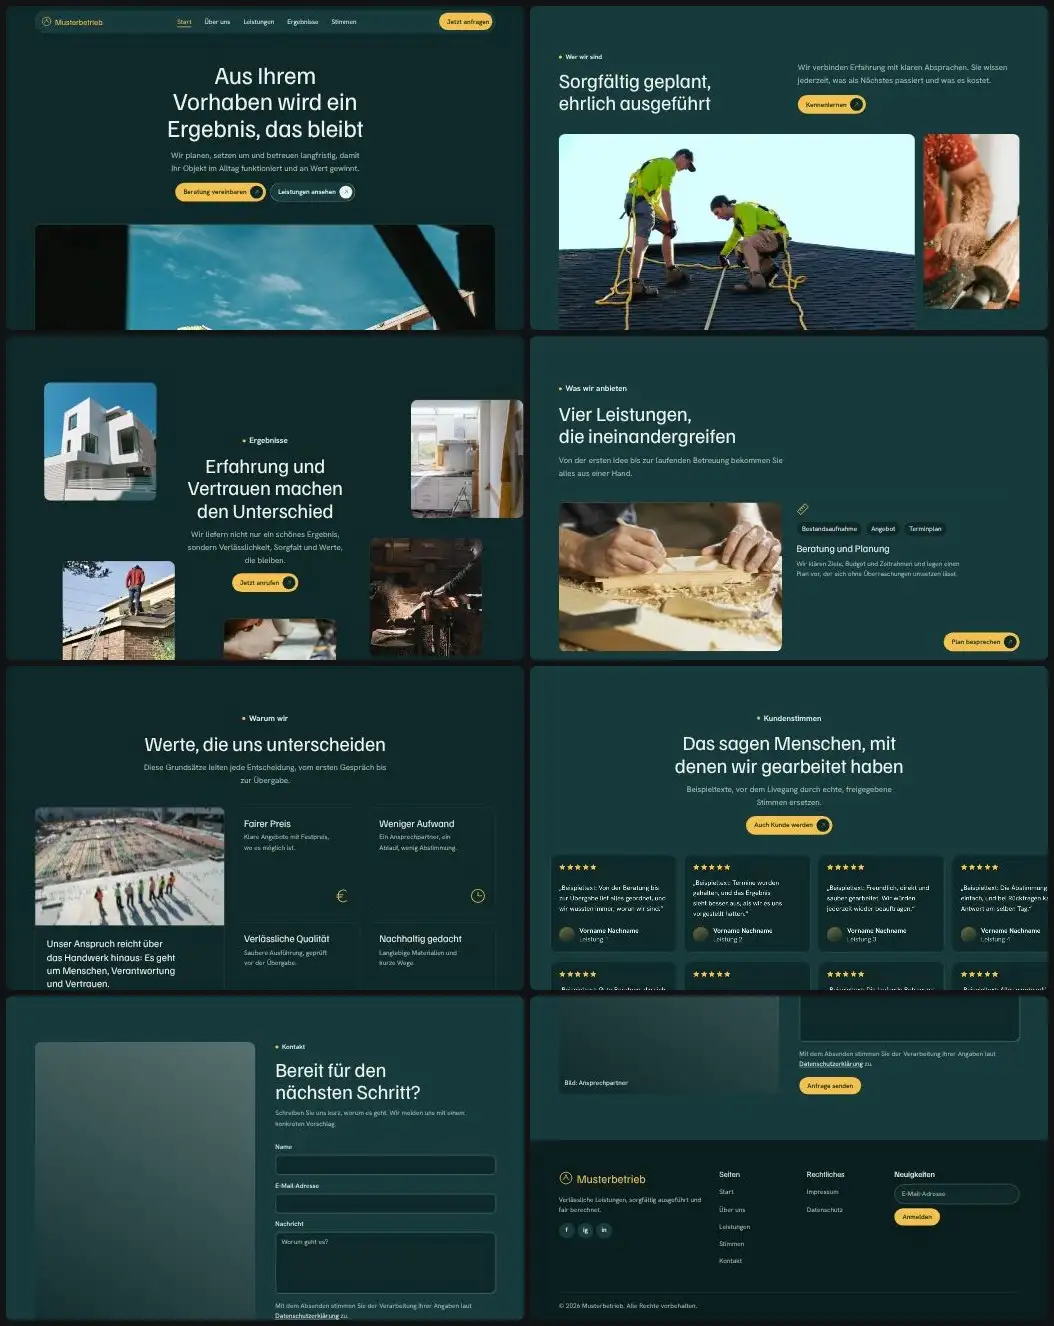
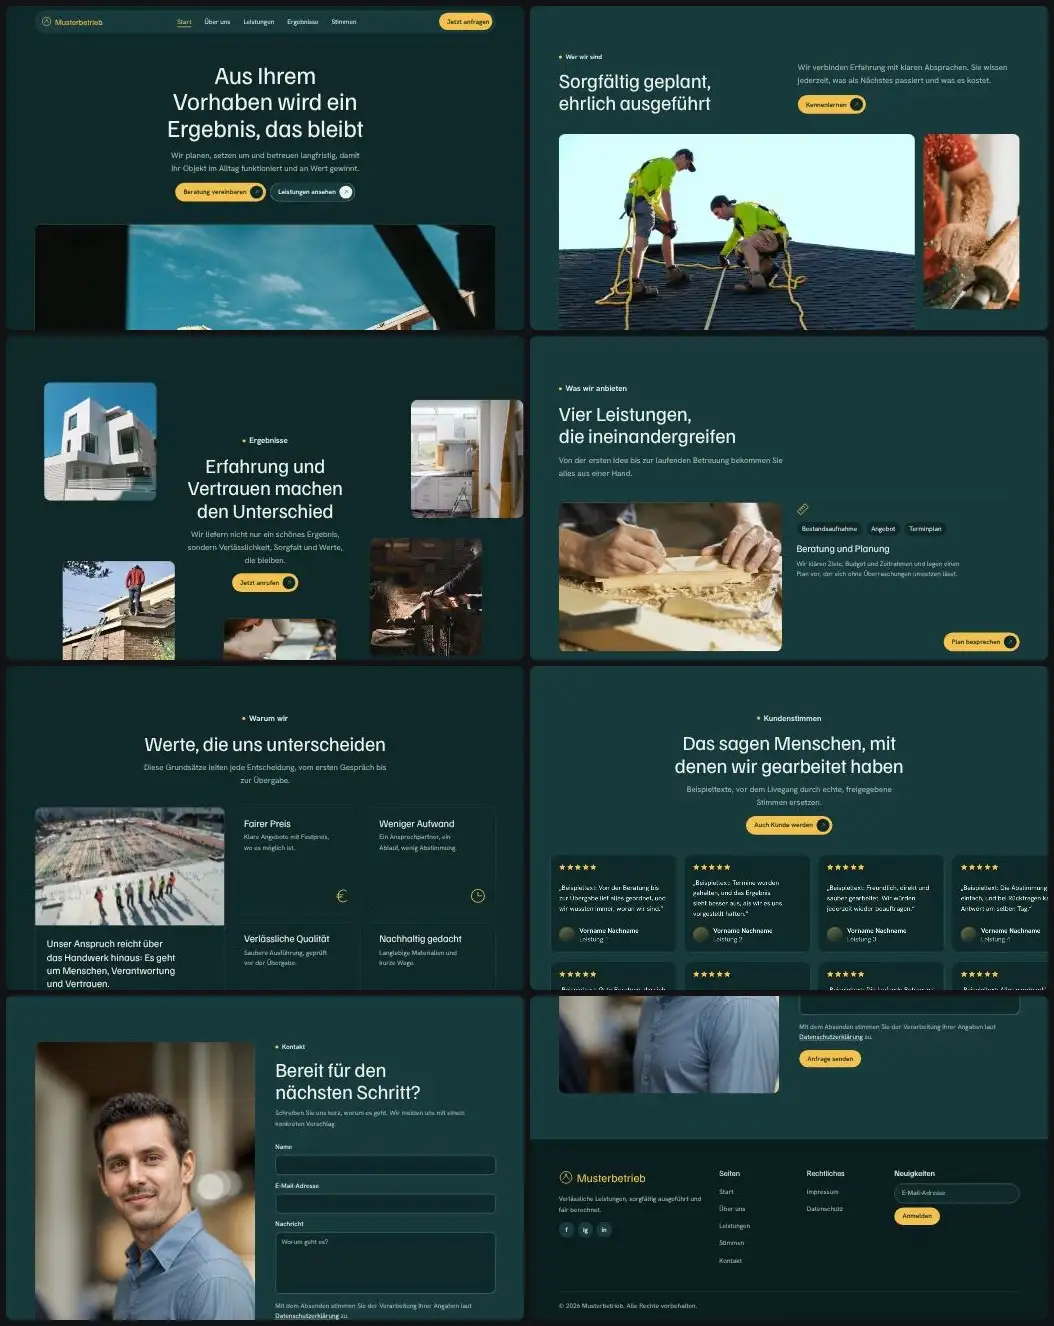
Bibliothek t11: Porträts als Vorschaubilder (Unsplash) eingebaut
Claude-Session: https://claude.ai/code/session_01DoGuL1bwF3ewggMgZ4Cpvd

diff --git a/skills/webdesign-conversion/assets/vorlagen/bibliothek/t31/index.html b/skills/webdesign-conversion/assets/vorlagen/bibliothek/t31/index.html
@@ -208,12 +208,12 @@
     </header>
     <div class="stimmen__raster" data-stimmen>
       <ul class="stimmen__wahl" aria-label="Stimme wählen">
-        <li><a class="bild bild--a" href="#s1" data-platzhalter="Porträt 1" aria-label="Stimme 1, Beispielname Anna Muster"></a></li>
-        <li><a class="bild bild--b" href="#s2" data-platzhalter="Porträt 2" aria-label="Stimme 2, Beispielname Ben Beispiel"></a></li>
-        <li><a class="bild bild--c" href="#s3" data-platzhalter="Porträt 3" aria-label="Stimme 3, Beispielname Carla Probe"></a></li>
-        <li><a class="bild bild--d" href="#s4" data-platzhalter="Porträt 4" aria-label="Stimme 4, Beispielname David Demo"></a></li>
-        <li><a class="bild bild--e" href="#s5" data-platzhalter="Porträt 5" aria-label="Stimme 5, Beispielname Eva Entwurf"></a></li>
-        <li><a class="bild bild--f" href="#s6" data-platzhalter="Porträt 6" aria-label="Stimme 6, Beispielname Finn Platz"></a></li>
+        <li><a class="bild bild--a" href="#s1" aria-label="Stimme 1, Beispielname Anna Muster"><img src="bilder/mann-blaues-hemd-640.webp" width="640" height="960" alt="Mann in blauem Hemd im Lokal" loading="lazy" decoding="async" style="object-position:50% 25%"></a></li>
+        <li><a class="bild bild--b" href="#s2" aria-label="Stimme 2, Beispielname Ben Beispiel"><img src="bilder/frau-lockig-blazer-640.webp" width="640" height="960" alt="Frau mit kurzem lockigem Haar im gestreiften Blazer" loading="lazy" decoding="async" style="object-position:50% 25%"></a></li>
+        <li><a class="bild bild--c" href="#s3" aria-label="Stimme 3, Beispielname Carla Probe"><img src="bilder/mann-bart-anzug-640.webp" width="640" height="503" alt="Mann mit Bart und dunklem Anzug" loading="lazy" decoding="async" style="object-position:50% 22%"></a></li>
+        <li><a class="bild bild--d" href="#s4" aria-label="Stimme 4, Beispielname David Demo"><img src="bilder/frau-lederjacke-640.webp" width="640" height="853" alt="Frau mit langem Haar und Lederjacke" loading="lazy" decoding="async" style="object-position:50% 22%"></a></li>
+        <li><a class="bild bild--e" href="#s5" aria-label="Stimme 5, Beispielname Eva Entwurf"><img src="bilder/mann-brille-pullover-640.webp" width="640" height="1138" alt="Mann mit Brille und grauem Pullover" loading="lazy" decoding="async" style="object-position:50% 25%"></a></li>
+        <li><a class="bild bild--f" href="#s6" aria-label="Stimme 6, Beispielname Finn Platz"><img src="bilder/frau-blond-lachend-640.webp" width="640" height="960" alt="Lachende junge Frau mit lockigem blondem Haar" loading="lazy" decoding="async" style="object-position:50% 25%"></a></li>
       </ul>
       <div class="stimmen__tafel">
         <figure class="stimme" id="s1" data-beispiel><svg class="stimme__zeichen" width="44" height="44" aria-hidden="true"><use href="#i-zitat"/></svg><blockquote><p>Seit dem Wechsel kümmere ich mich nicht mehr um die Reinigung. Das Team kommt, wenn es soll, und ich sehe nach jedem Einsatz den Nachweis. Besser geht es nicht.</p></blockquote><figcaption><span><strong>Anna Muster</strong> Leitung Verwaltung</span><span class="sterne" role="img" aria-label="5 von 5 Sternen"><svg width="16" height="16" aria-hidden="true"><use href="#i-stern"/></svg><svg width="16" height="16" aria-hidden="true"><use href="#i-stern"/></svg><svg width="16" height="16" aria-hidden="true"><use href="#i-stern"/></svg><svg width="16" height="16" aria-hidden="true"><use href="#i-stern"/></svg><svg width="16" height="16" aria-hidden="true"><use href="#i-stern"/></svg></span></figcaption></figure>

diff --git a/skills/webdesign-conversion/assets/vorlagen/bibliothek/t11/index.html b/skills/webdesign-conversion/assets/vorlagen/bibliothek/t11/index.html
@@ -241,7 +241,7 @@
 
 <section class="sektion sektion--alt kontakt" id="kontakt" aria-labelledby="h-kontakt">
   <div class="wrap kontakt__raster">
-    <div class="bild bild--b kontakt__bild" data-zeig="skala" data-platzhalter="Bild: Ansprechpartner"></div>
+    <div class="bild bild--b kontakt__bild" data-zeig="skala"><img src="bilder/mann-blaues-hemd-640.webp" width="640" height="960" alt="Mann in blauem Hemd im Lokal" loading="lazy" decoding="async" style="object-position:50% 25%"></div>
     <div class="kontakt__form" data-zeig="rechts">
       <p class="kicker">Kontakt</p>
       <h2 id="h-kontakt">Bereit für den nächsten Schritt?</h2>

diff --git a/skills/webdesign-conversion/assets/vorlagen/bibliothek/t31/BILDER.md b/skills/webdesign-conversion/assets/vorlagen/bibliothek/t31/BILDER.md
@@ -21,6 +21,13 @@ Alle Fotos von Unsplash, abgerufen am 25.11.2026. Titel und Lizenz stehen so auf
 | mikrofaser-textur.webp | Blog, Beitrag 2 | blau-weißes Strickgewebe | @mitchel3uo | https://unsplash.com/photos/T3RuVobebbE | Unsplash Lizenz | 25.11.2026 |
 
 
+| mann-blaues-hemd-640.webp | index.html, Zeile 211, Porträt 1 | Mann in blauem Hemd im Lokal | [@dannypostma](https://unsplash.com/de/@dannypostma) | [Seite](https://unsplash.com/de/fotos/qm6yxe7SjWg) | Unsplash Lizenz | 25.11.2026 |
+| frau-lockig-blazer-640.webp | index.html, Zeile 212, Porträt 2 | Frau mit kurzem lockigem Haar im gestreiften Blazer | [@wocintechchat](https://unsplash.com/de/@wocintechchat) | [Seite](https://unsplash.com/de/fotos/SJvDxw0azqw) | Unsplash Lizenz | 25.11.2026 |
+| mann-bart-anzug-640.webp | index.html, Zeile 213, Porträt 3 | Mann mit Bart und dunklem Anzug | [@ernestflowerss](https://unsplash.com/de/@ernestflowerss) | [Seite](https://unsplash.com/de/fotos/OgH6DuGylRs) | Unsplash Lizenz | 25.11.2026 |
+| frau-lederjacke-640.webp | index.html, Zeile 214, Porträt 4 | Frau mit langem Haar und Lederjacke | [@fresh_studio](https://unsplash.com/de/@fresh_studio) | [Seite](https://unsplash.com/de/fotos/4BG2yKyCaWg) | Unsplash Lizenz | 25.11.2026 |
+| mann-brille-pullover-640.webp | index.html, Zeile 215, Porträt 5 | Mann mit Brille und grauem Pullover | [@silverkblack](https://unsplash.com/de/@silverkblack) | [Seite](https://unsplash.com/de/fotos/y-XZf_TNRms) | Unsplash Lizenz | 25.11.2026 |
+| frau-blond-lachend-640.webp | index.html, Zeile 216, Porträt 6 | Lachende junge Frau mit lockigem blondem Haar | [@dougbagg_](https://unsplash.com/de/@dougbagg_) | [Seite](https://unsplash.com/de/fotos/9iLbXsMZ6ls) | Unsplash Lizenz | 25.11.2026 |
+
 ## Hinweise
 
 * Mehrere Fotos stehen an mehr als einem Platz (siehe Spalte Platz), weil es für viele Plätze nicht genug passende Motive mit Unsplash Lizenz gab. Vor Abgabe durch eigene Fotos des Betriebs ersetzen.
@@ -33,4 +40,5 @@ Alle Fotos von Unsplash, abgerufen am 25.11.2026. Titel und Lizenz stehen so auf
 
 * Foto Team bei der Arbeit (Hochformat, mit Plakette): bleibt Platzhalter.
 * Sechs Porträts der Kundenstimmen: Personen, bleiben offen, damit niemand als echte Person erscheint.
+- Nachtrag 25.11.2026: Personen und weitere Beispielfotos als Vorschau eingesetzt, werden vor Abgabe ersetzt.
 - Nachtrag 25.11.2026: Personen und weitere Beispielfotos als Vorschau eingesetzt, werden vor Abgabe ersetzt.

diff --git a/skills/webdesign-conversion/assets/vorlagen/bibliothek/t11/BILDER.md b/skills/webdesign-conversion/assets/vorlagen/bibliothek/t11/BILDER.md
@@ -21,3 +21,6 @@ Alle Fotos von Unsplash, Unsplash Lizenz (https://unsplash.com/de/lizenz), abger
 ## Offen
 
 Offen: Ansprechpartner (Kontakt) bleibt Platzhalter, weil dort eine echte Person gezeigt würde. Die Bilder für Team und Gemeinsam zeigen anonyme Bauarbeiter als Stimmung, nicht das Team des Betriebs. Zwei Fotos stammen von Firmenkonten (Raze Solar, immo RENOVATION), Fotos zeigen Warnwesten ohne lesbare Marke, vor Einsatz prüfen. Fotoseiten sind aus der Kennung der Suchseite abgeleitet, Kennungen nicht einzeln geöffnet. Beschreibungen sind eigene Kurzbeschreibungen nach Ansicht des Bildes.
+
+| mann-blaues-hemd-640.webp | index.html, Zeile 244, Bild: Ansprechpartner | Mann in blauem Hemd im Lokal | [@dannypostma](https://unsplash.com/de/@dannypostma) | [Seite](https://unsplash.com/de/fotos/qm6yxe7SjWg) | Unsplash Lizenz | 25.11.2026 |
+- Nachtrag 25.11.2026: Personen und weitere Beispielfotos als Vorschau eingesetzt, werden vor Abgabe ersetzt.
